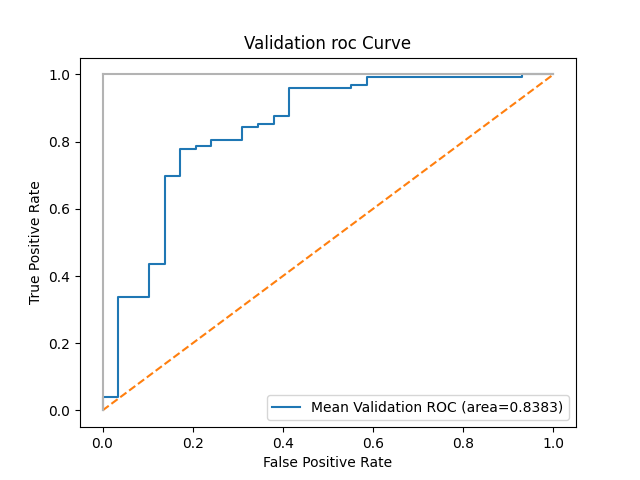
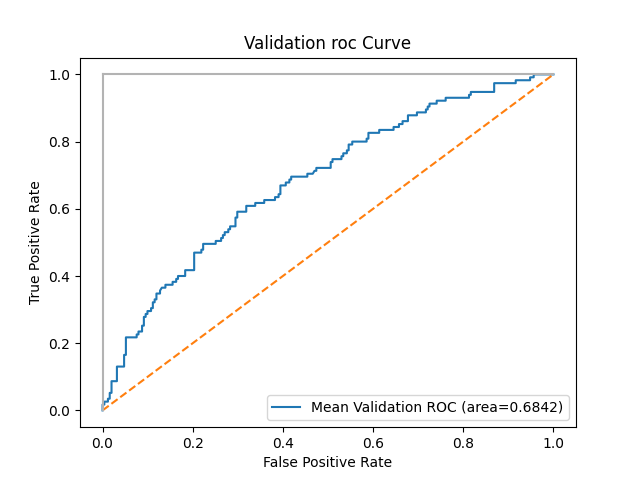
fix the problem that survey and roc_curve are not shown after modifying sentences

diff --git a/static/js/iMedbot.js b/static/js/iMedbot.js
@@ -582,10 +582,10 @@ function generatePatientForm(labelList,table_result) {
         labelList_withouttarget = (labelList.toString()).split("\t")
         labelList_withouttarget.pop()
     }
-    //console.log(labelList_withouttarget)
-    //console.log(table_result)
+    console.log(labelList_withouttarget)
+    console.log(table_result)
     var final_result = labelList_withouttarget.map((e, i) => e + "&"+table_result[i]);
-    //console.log(final_result)
+    console.log(final_result)
     let patientFormHtml = ""
           if (labelList.length != 0){
               document.getElementById('textInput').disabled = true;
@@ -720,7 +720,7 @@ function predictanotherpatient(){
 
 function takesurvey(){
 add_userMsg("take a survey");
-appendMessage(BOT_NAME, NURSE_IMG, "left","It is my pleasure to serve. Please rate my service if you can. Thank you!?","no information",[]);
+appendMessage(BOT_NAME, NURSE_IMG, "left",SURVEY,"no information",[]);
 }
 
 function takenosurvey(){
@@ -765,7 +765,7 @@ function appendMessage(name, img, side, text, instruction,btnGroup,tag="") {
     var parameterHTML = ``
     var patientHtml = ``
     var rocHTML = ``
-    if(text.includes("roc curve")){
+    if(text.includes("ROC_curve")){
         rocHTML = `<img className="fit-picture" src="static/img/roc/roc_curve.png" alt="ROC Curve" style="width:300px;height:250px;">`
     }
     if(text.includes("SHAP")){
@@ -1027,7 +1027,7 @@ function showNext(e){
 
     if (pattern == "Predict"){
         add_userMsg("Predict")
-        appendMessage(BOT_NAME, NURSE_IMG, "left", "I can predict the recurrence probability of breast cancer, please tell me which year you want to predict","treatment_year instruction",{"5 year":"5 year","10 year":"10 year","15 year":"15 year"})
+        appendMessage(BOT_NAME, NURSE_IMG, "left", "I can predict 5-year, 10-year, or 15-year breast cancer metastasis for your patient, please tell me which year you want to go by?","treatment_year instruction",{"5 year":"5 year","10 year":"10 year","15 year":"15 year"})
     }else if(pattern == "Train a Model"){
         add_userMsg("Train a Model")
                 Swal.fire({
@@ -1044,7 +1044,7 @@ function showNext(e){
                       appendMessage(BOT_NAME, NURSE_IMG, "left", "Please review the demo dataset first and upload your local dataset, only .txt and .csv format are permitted","Browse data",{"View Example Dataset":"View Example Dataset","Upload Local Dataset":"Upload Local Dataset","Run Model with Example Dataset":"Run Model with Example Dataset"})
                   }else {
                       console.log("hello")
-                        secMsg = "I can either predict breast cancer metastasis for your patient based on our deep learning models trained using one existing dataset,or I can train a model for you if you can provide your own dataset, so how do you want to proceed?Please enter 1 for the first choice, or 2 for the second choice"
+                        secMsg = "I can either predict breast cancer metastasis for your patient based on our deep learning models trained using one existing dataset,or I can train a model for you if you can provide your own dataset. Please make your choice by clicking a button below."
                         appendMessage(BOT_NAME, NURSE_IMG, "left", secMsg,"no information", {"Predict":"Predict","Train a Model":"Train a Model"});
                       }
                 })
@@ -1075,7 +1075,7 @@ function showNext(e){
         var input_cpoy = input
         input = []
         getinput(input_cpoy)
-        appendMessage(BOT_NAME, NURSE_IMG, "left", "Thank you! you answered all questions, we are calculating recurrence","no information",btnGroup);
+        appendMessage(BOT_NAME, NURSE_IMG, "left", "You answered all questions, thank you! We are doing the calculation now. ","no information",btnGroup);
         return
     }
     tag=""
@@ -1097,9 +1097,9 @@ function showNext(e){
 
 function getinput(input_copy){
   $.get("/getInput", { msg: input_copy.toString() }).done(function (data) {
-    res = "The patient's risk of breast cancer recurrence is" +" "+data.substring(2,data.length-2)
+    res = "The chance of breast cancer metastasis is" +" "+data.substring(2,data.length-2)
       appendMessage(BOT_NAME, NURSE_IMG, "left", res,"no information",[])
-      appendMessage(BOT_NAME, NURSE_IMG, "left","What is the following thing you would like to do?","no information",{"Predict another patient":"Predict another patient","End task":"End task"})
+      appendMessage(BOT_NAME, NURSE_IMG, "left","Which task would you like to do next?","no information",{"Predict another patient":"Predict another patient","End task":"End task"})
      // appendMessage(BOT_NAME, NURSE_IMG, "left",SURVEY,"no information",[])
 
 

diff --git a/application.py b/application.py
@@ -121,15 +121,14 @@ def get_test_patient_list():
             contents[i] = contents[i].split()
         labellist = contents[0]
         res = {}
-        print(labellist, len(contents[0]),len(contents))
-        print(contents)
+
         for i in range(len(labellist)):
             res[labellist[i]] = []
             for j in range(1, len(contents)):
 
                 if len(contents[j])==len(labellist) and contents[j][i] not in res[labellist[i]]:
                     res[labellist[i]].append(contents[j][i])
-        print(res)
+        print("res is ",res)
     else:
         contents=pandas.read_csv(filename)
         print("contents",contents)
